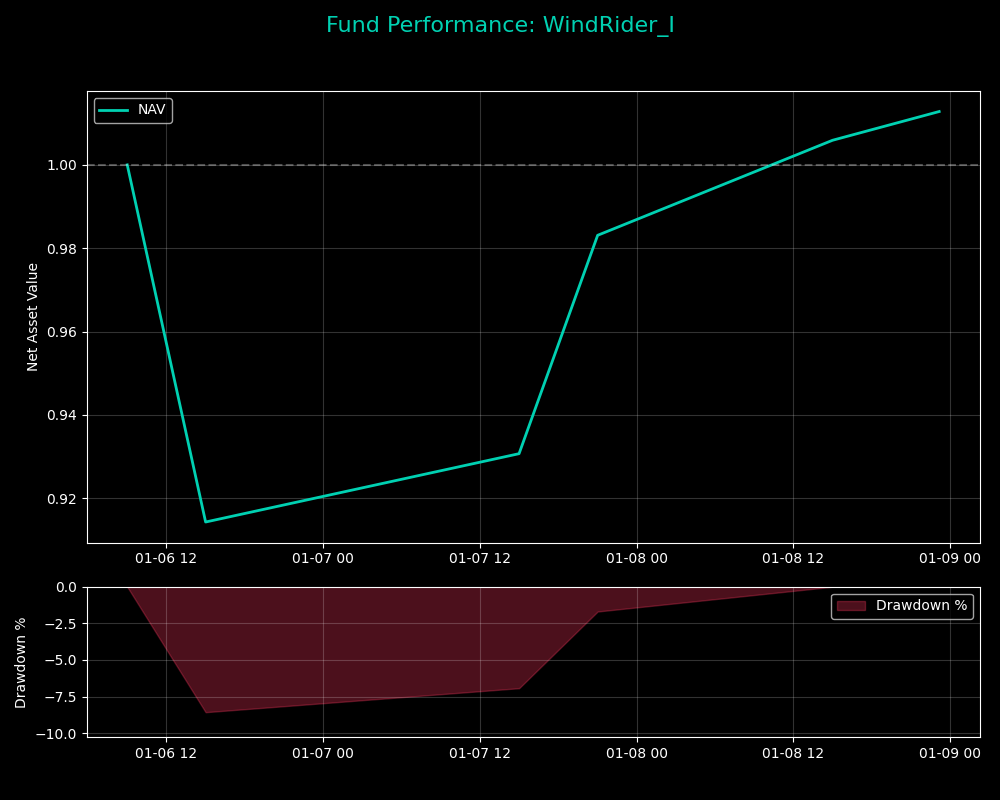
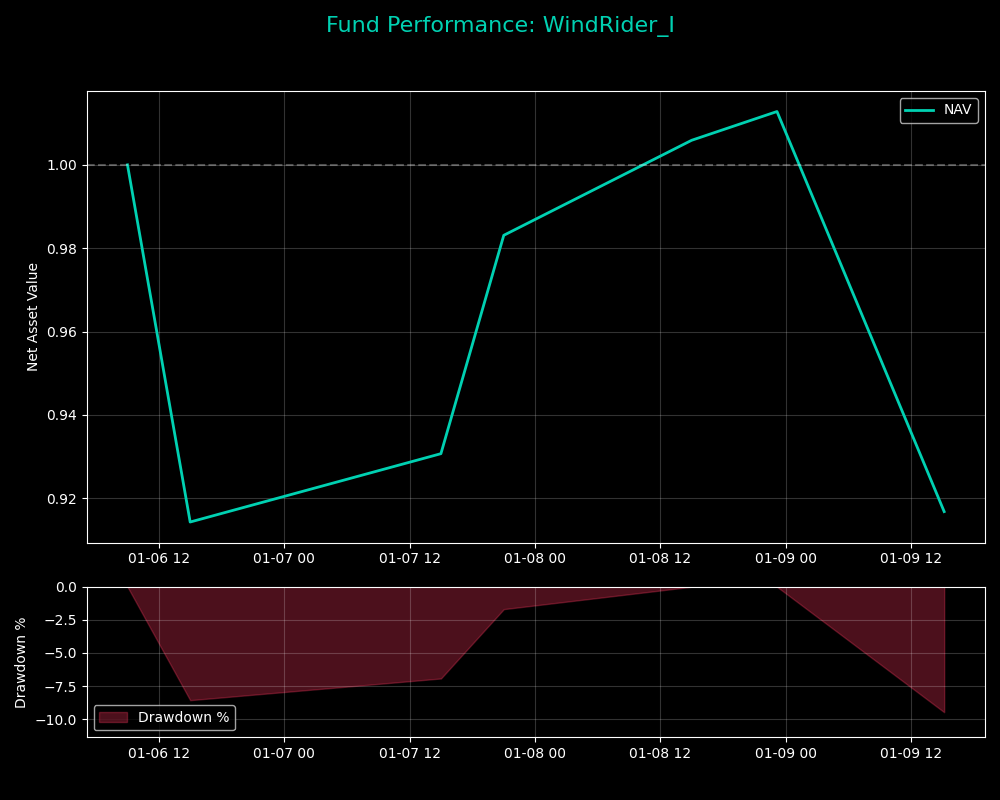
Updated Hugo site content

diff --git a/public/investment/windrider-1/index.html b/public/investment/windrider-1/index.html
@@ -66,8 +66,8 @@
   <meta property="og:locale" content="en-us">
   <meta property="og:type" content="article">
     <meta property="article:section" content="investment">
-    <meta property="article:published_time" content="2026-01-09T12:54:15+08:00">
-    <meta property="article:modified_time" content="2026-01-09T12:54:15+08:00">
+    <meta property="article:published_time" content="2026-01-09T13:21:00+08:00">
+    <meta property="article:modified_time" content="2026-01-09T13:21:00+08:00">
 <meta name="twitter:card" content="summary">
 <meta name="twitter:title" content="风舵1号 (WindRider I) 指数">
 <meta name="twitter:description" content="商品期货分形摆动策略实盘">
@@ -103,11 +103,11 @@
   "keywords": [
     
   ],
-  "articleBody": "🚢 净值简报 (截止: 2026-01-08) 核心指标 数据 最新净值 1.0128 今日涨跌 +0.69% 策略状态 运行中 (4小时分形) 📈 净值曲线图 声明：本页面数据为实盘记录，仅供技术交流，不构成投资建议。\n",
-  "wordCount" : "16",
+  "articleBody": "🚢 净值简报 (截止: 2026-01-08) 核心指标 数据 最新净值 1.0128 今日涨跌 +0.69% 年化收益 计算中… 累计涨跌 +1.28% 起步日期 2026-01-06 策略状态 运行中 (4小时分形) 📈 净值曲线图 声明：本页面数据为实盘记录，仅供技术交流，不构成投资建议。\n",
+  "wordCount" : "22",
   "inLanguage": "en",
-  "datePublished": "2026-01-09T12:54:15+08:00",
-  "dateModified": "2026-01-09T12:54:15+08:00",
+  "datePublished": "2026-01-09T13:21:00+08:00",
+  "dateModified": "2026-01-09T13:21:00+08:00",
   "mainEntityOfPage": {
     "@type": "WebPage",
     "@id": "https://hankou.com/investment/windrider-1/"
@@ -191,7 +191,7 @@
     <div class="post-description">
       商品期货分形摆动策略实盘
     </div>
-    <div class="post-meta"><span title='2026-01-09 12:54:15 +0800 CST'>January 9, 2026</span>&nbsp;·&nbsp;<span>1 min</span>
+    <div class="post-meta"><span title='2026-01-09 13:21:00 +0800 CST'>January 9, 2026</span>&nbsp;·&nbsp;<span>1 min</span>
 
 </div>
   </header> 
@@ -211,6 +211,18 @@
       <tr>
           <td style="text-align: left"><strong>今日涨跌</strong></td>
           <td style="text-align: left"><strong>+0.69%</strong></td>
+      </tr>
+      <tr>
+          <td style="text-align: left"><strong>年化收益</strong></td>
+          <td style="text-align: left"><strong>计算中&hellip;</strong></td>
+      </tr>
+      <tr>
+          <td style="text-align: left"><strong>累计涨跌</strong></td>
+          <td style="text-align: left">+1.28%</td>
+      </tr>
+      <tr>
+          <td style="text-align: left"><strong>起步日期</strong></td>
+          <td style="text-align: left">2026-01-06</td>
       </tr>
       <tr>
           <td style="text-align: left"><strong>策略状态</strong></td>

diff --git a/public/investment/index.html b/public/investment/index.html
@@ -150,10 +150,10 @@
     </h2>
   </header>
   <div class="entry-content">
-    <p>🚢 净值简报 (截止: 2026-01-08) 核心指标 数据 最新净值 1.0128 今日涨跌 &#43;0.69% 策略状态 运行中 (4小时分形) 📈 净值曲线图 声明：本页面数据为实盘记录，仅供技术交流，不构成投资建议。
+    <p>🚢 净值简报 (截止: 2026-01-08) 核心指标 数据 最新净值 1.0128 今日涨跌 &#43;0.69% 年化收益 计算中… 累计涨跌 &#43;1.28% 起步日期 2026-01-06 策略状态 运行中 (4小时分形) 📈 净值曲线图 声明：本页面数据为实盘记录，仅供技术交流，不构成投资建议。
 </p>
   </div>
-  <footer class="entry-footer"><span title='2026-01-09 12:54:15 +0800 CST'>January 9, 2026</span>&nbsp;·&nbsp;<span>1 min</span></footer>
+  <footer class="entry-footer"><span title='2026-01-09 13:21:00 +0800 CST'>January 9, 2026</span>&nbsp;·&nbsp;<span>1 min</span></footer>
   <a class="entry-link" aria-label="post link to 风舵1号 (WindRider I) 指数" href="https://hankou.com/investment/windrider-1/"></a>
 </article>
 

diff --git a/content/investment/windrider-1.md b/content/investment/windrider-1.md
@@ -1,21 +1,21 @@
 +++
 title = "风舵1号 (WindRider I) 指数"
-date = 2026-01-09T13:21:00+08:00
-lastmod = 2026-01-09T13:21:00+08:00
+date = 2026-01-09T16:39:19+08:00
+lastmod = 2026-01-09T16:39:19+08:00
 draft = false
 description = "商品期货分形摆动策略实盘"
 +++
 
-### 🚢 净值简报 (截止: 2026-01-08)
+### 🚢 净值简报 (截止: 2026-01-09)
 
 | 核心指标 | 数据 |
 | :--- | :--- |
-| **最新净值** | **1.0128** |
-| **今日涨跌** | **+0.69%** |
+| **最新净值** | **0.9168** |
+| **今日涨跌** | **-9.48%** |
 | **年化收益** | **计算中...** |
-| **累计涨跌** | +1.28% |
+| **累计涨跌** | -8.32% |
 | **起步日期** | 2026-01-06 |
-| **策略状态** | 运行中 (4小时分形) |
+| **策略状态** | 运行中 |
 
 ### 📈 净值曲线图
 ![风舵1号净值曲线](/images/investment/windrider_nav.png)
